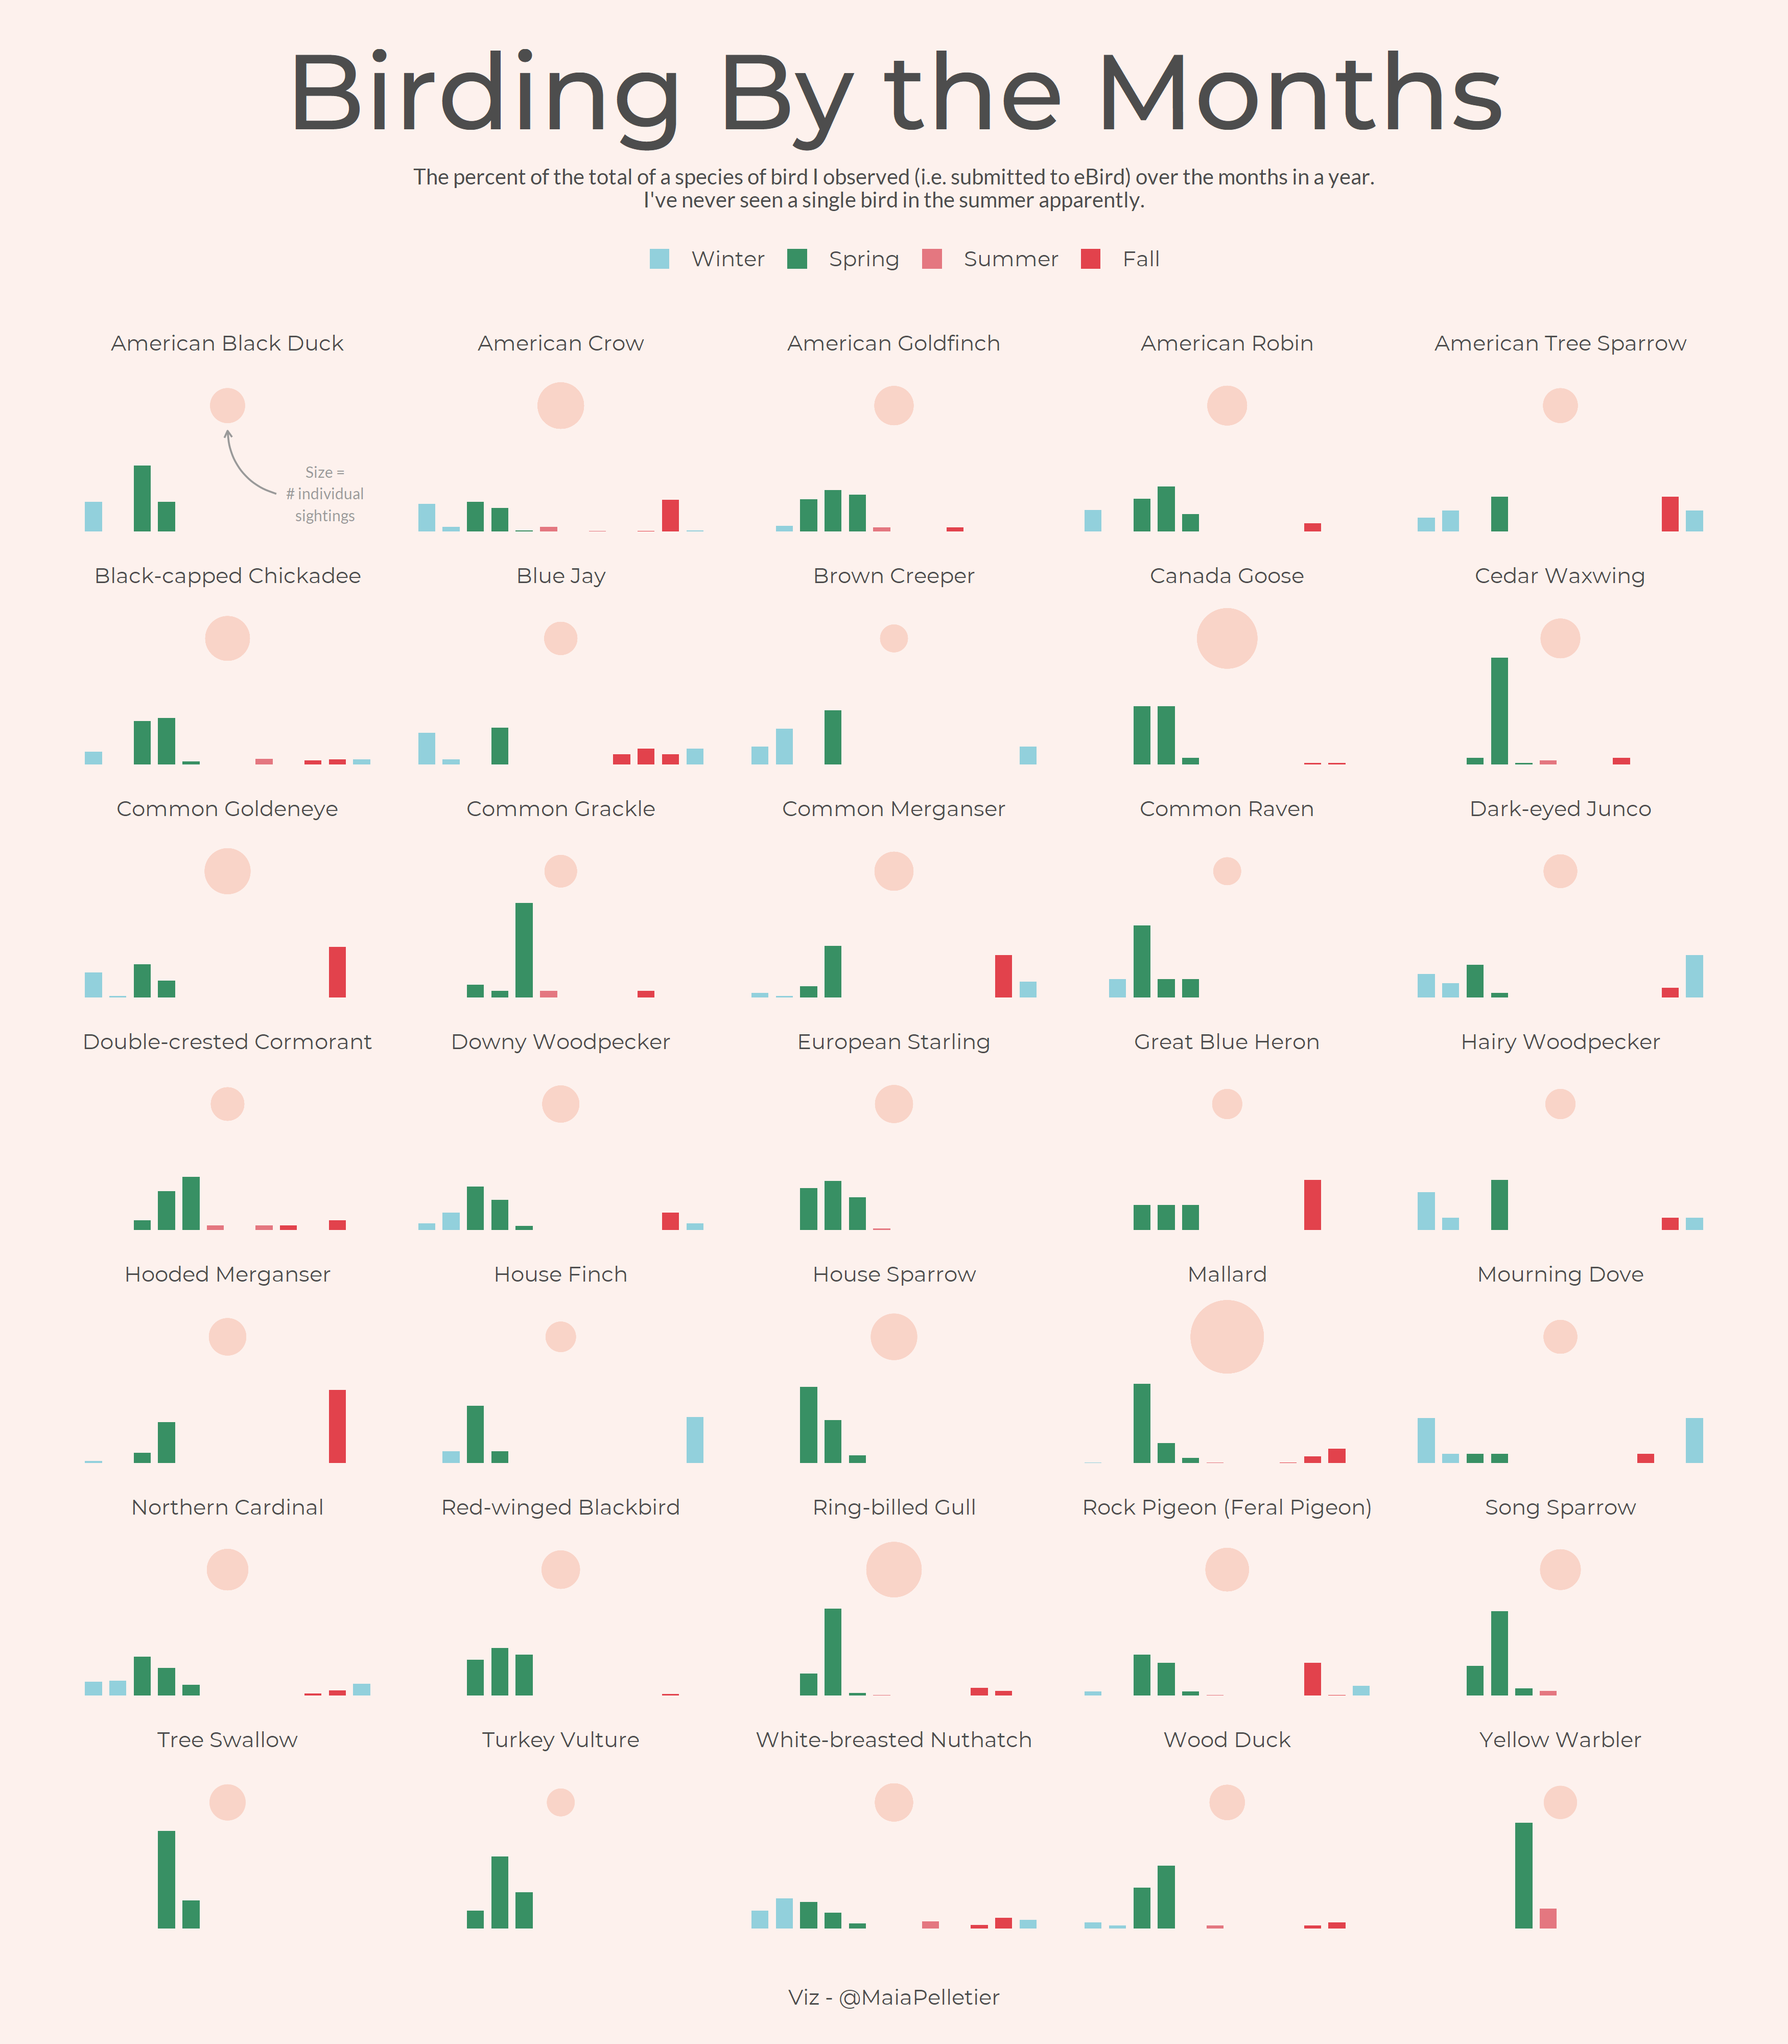
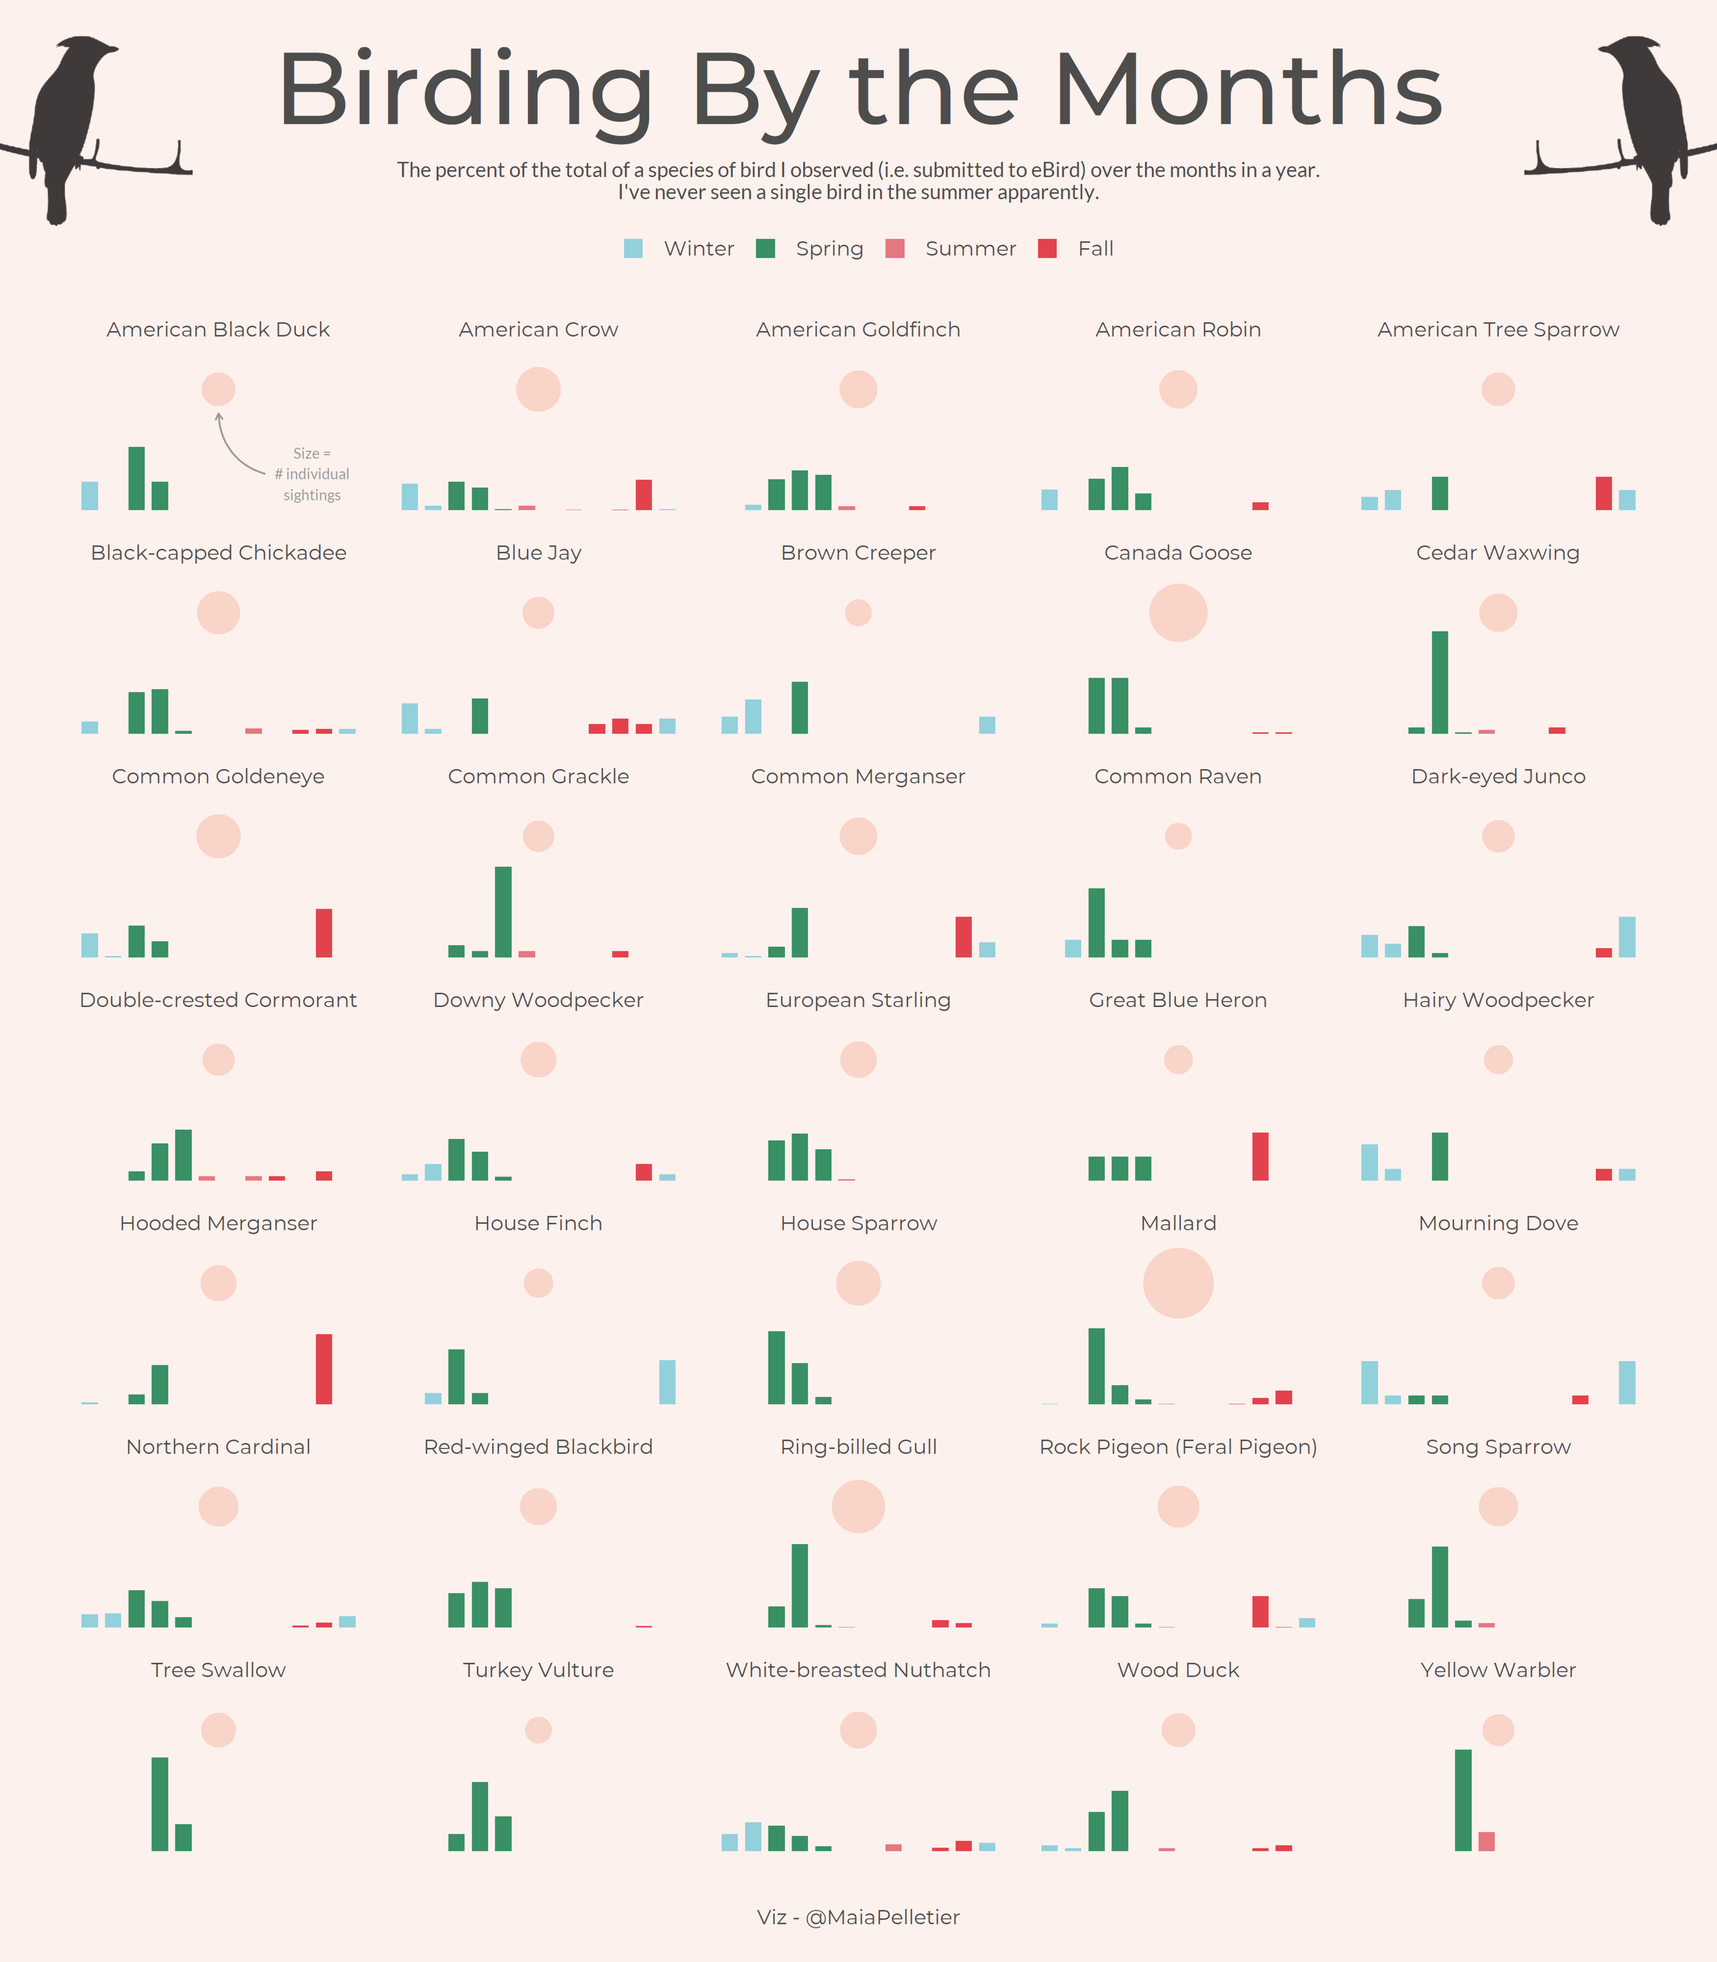
day 8 - add cedar waxwings & add to readme

diff --git a/README.md b/README.md
@@ -31,3 +31,7 @@ challenge](https://github.com/Z3tt/30DayChartChallenge_2021).
 ### Day 7: Physical
 
 ![image](day07%20-%20physical/day07_physical.png)
+
+### Day 7: Animals
+
+![image](day08%20-%20animal/day08_animal.png)
